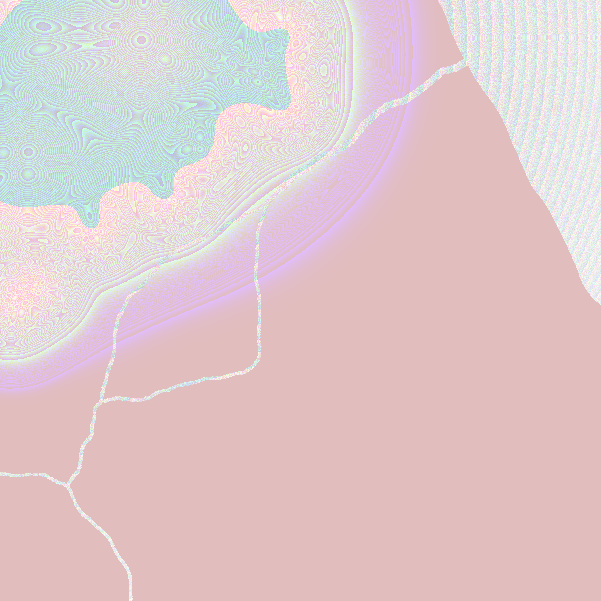
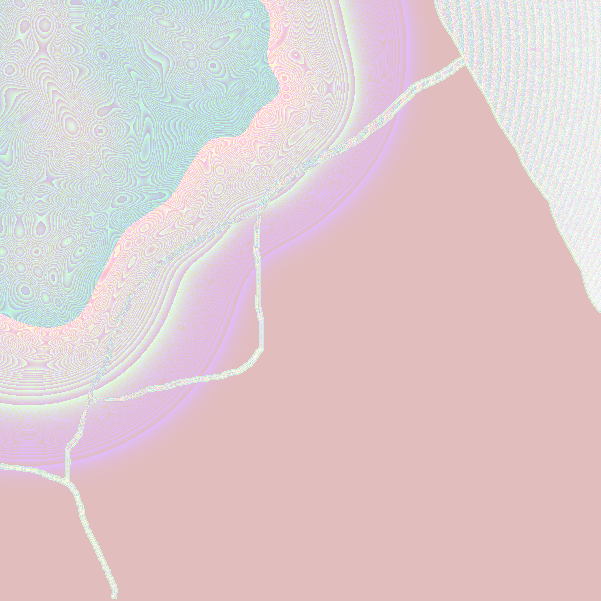
add smoothTerrain and update terrains.

diff --git a/ExRoadDesigner/GeneratedFiles/ui_ControlWidget.h b/ExRoadDesigner/GeneratedFiles/ui_ControlWidget.h
@@ -1,7 +1,7 @@
 /********************************************************************************
 ** Form generated from reading UI file 'ControlWidget.ui'
 **
-** Created: Wed Feb 4 12:25:34 2015
+** Created: Wed Feb 4 16:25:29 2015
 **      by: Qt User Interface Compiler version 4.8.2
 **
 ** WARNING! All changes made in this file will be lost when recompiling UI file!
@@ -114,6 +114,7 @@ public:
     QLabel *label_15;
     QLineEdit *terrainPaint_changeEdit;
     QLabel *terrainPaint_changeLabel_2;
+    QPushButton *pushButtonSmoothTerrain;
 
     void setupUi(QDockWidget *ControlWidget)
     {
@@ -295,7 +296,7 @@ public:
         ContentEditionTab->setObjectName(QString::fromUtf8("ContentEditionTab"));
         groupBox_6 = new QGroupBox(ContentEditionTab);
         groupBox_6->setObjectName(QString::fromUtf8("groupBox_6"));
-        groupBox_6->setGeometry(QRect(10, 20, 171, 251));
+        groupBox_6->setGeometry(QRect(10, 20, 171, 311));
         terrainPaint_sizeLabel = new QLabel(groupBox_6);
         terrainPaint_sizeLabel->setObjectName(QString::fromUtf8("terrainPaint_sizeLabel"));
         terrainPaint_sizeLabel->setGeometry(QRect(10, 20, 61, 16));
@@ -368,7 +369,7 @@ public:
         content_checkbox->setGeometry(QRect(10, 190, 121, 17));
         groupBox_2 = new QGroupBox(groupBox_6);
         groupBox_2->setObjectName(QString::fromUtf8("groupBox_2"));
-        groupBox_2->setGeometry(QRect(10, 210, 151, 31));
+        groupBox_2->setGeometry(QRect(10, 270, 151, 31));
         content_0 = new QPushButton(groupBox_2);
         content_0->setObjectName(QString::fromUtf8("content_0"));
         content_0->setGeometry(QRect(10, 10, 19, 19));
@@ -424,6 +425,9 @@ public:
         terrainPaint_changeLabel_2 = new QLabel(groupBox_6);
         terrainPaint_changeLabel_2->setObjectName(QString::fromUtf8("terrainPaint_changeLabel_2"));
         terrainPaint_changeLabel_2->setGeometry(QRect(88, 40, 16, 16));
+        pushButtonSmoothTerrain = new QPushButton(groupBox_6);
+        pushButtonSmoothTerrain->setObjectName(QString::fromUtf8("pushButtonSmoothTerrain"));
+        pushButtonSmoothTerrain->setGeometry(QRect(20, 220, 131, 31));
         TabWidget->addTab(ContentEditionTab, QString());
         ControlWidget->setWidget(dockWidgetContents);
         QWidget::setTabOrder(pushButtonGeneratePM, pushButtonClear);
@@ -454,7 +458,7 @@ public:
 
         retranslateUi(ControlWidget);
 
-        TabWidget->setCurrentIndex(0);
+        TabWidget->setCurrentIndex(2);
 
 
         QMetaObject::connectSlotsByName(ControlWidget);
@@ -526,6 +530,7 @@ public:
         content_10->setText(QApplication::translate("ControlWidget", "F", 0, QApplication::UnicodeUTF8));
         label_15->setText(QApplication::translate("ControlWidget", "Size:", 0, QApplication::UnicodeUTF8));
         terrainPaint_changeLabel_2->setText(QApplication::translate("ControlWidget", "m", 0, QApplication::UnicodeUTF8));
+        pushButtonSmoothTerrain->setText(QApplication::translate("ControlWidget", "Smooth Terrain", 0, QApplication::UnicodeUTF8));
         TabWidget->setTabText(TabWidget->indexOf(ContentEditionTab), QApplication::translate("ControlWidget", "Content", 0, QApplication::UnicodeUTF8));
         Q_UNUSED(ControlWidget);
     } // retranslateUi

diff --git a/ExRoadDesigner/MainWindow.cpp b/ExRoadDesigner/MainWindow.cpp
@@ -96,7 +96,6 @@ MainWindow::MainWindow(QWidget *parent, Qt::WFlags flags) : QMainWindow(parent, 
 	urbanGeometry = new UrbanGeometry(this);
 
 	mode = MODE_AREA_SELECT;
-	//imgCount=0;
 }
 
 MainWindow::~MainWindow() {
@@ -113,8 +112,8 @@ void MainWindow::keyReleaseEvent(QKeyEvent* e) {
 void MainWindow::onNewTerrain() {
 	TerrainSizeInputDialog dlg(this);
 	if (dlg.exec() == QDialog::Accepted) {
-		//urbanGeometry->newTerrain(dlg.width, dlg.depth, dlg.cellLength);
 		glWidget->vboRenderManager.changeTerrainDimensions(dlg.side,dlg.cellResolution);
+		glWidget->shadow.makeShadowMap(glWidget);
 		glWidget->updateGL();
 	}
 }
@@ -123,8 +122,7 @@ void MainWindow::onLoadTerrain() {
 	QString filename = QFileDialog::getOpenFileName(this, tr("Load Terrain file..."), "", tr("Terrain Files (*.png *.jpg)"));
 	if (filename.isEmpty()) return;
 	glWidget->vboRenderManager.vboTerrain.loadTerrain(filename);
-	//urbanGeometry->loadTerrain(filename);
-
+	glWidget->shadow.makeShadowMap(glWidget);
 	glWidget->updateGL();
 }
 
@@ -132,7 +130,6 @@ void MainWindow::onSaveTerrain() {
 	QString filename = QFileDialog::getSaveFileName(this, tr("Save Terrain file..."), "", tr("Terrain Files (*.png)"));
 	if (filename.isEmpty()) return;
 	glWidget->vboRenderManager.vboTerrain.saveTerrain(filename);
-	//urbanGeometry->saveTerrain(filename);
 }
 
 void MainWindow::onLoadRoads() {

diff --git a/ExRoadDesigner/ControlWidget.cpp b/ExRoadDesigner/ControlWidget.cpp
@@ -76,6 +76,7 @@ ControlWidget::ControlWidget(MainWindow* mainWin) : QDockWidget("Control Widget"
 	connect(ui.render_2DroadsExtraWidthSlider, SIGNAL(valueChanged(int)),this, SLOT(updateRender2D(int)));
 	connect(ui.render_2DparksSlider, SIGNAL(valueChanged(int)),this, SLOT(updateRender2D(int)));
 	connect(ui.render_2DparcelLineSlider, SIGNAL(valueChanged(int)),this, SLOT(updateRender2D(int)));
+	connect(ui.pushButtonSmoothTerrain, SIGNAL(clicked()), this, SLOT(smoothTerrain()));
 	connect(ui.content_checkbox, SIGNAL(stateChanged(int)),this, SLOT(contentDesign(int)));
 
 	connect(ui.content_0, SIGNAL(clicked()), this, SLOT(contentDesignLevel()));
@@ -360,6 +361,12 @@ void ControlWidget::changeTerrainShader(int) {
 	printf("terrainMode %d\n", terrainMode);
 	mainWin->glWidget->vboRenderManager.changeTerrainShader(terrainMode);
 	mainWin->urbanGeometry->update(mainWin->glWidget->vboRenderManager);
+	mainWin->glWidget->shadow.makeShadowMap(mainWin->glWidget);
+	mainWin->glWidget->updateGL();
+}
+
+void ControlWidget::smoothTerrain() {
+	mainWin->glWidget->vboRenderManager.vboTerrain.smoothTerrain();
 	mainWin->glWidget->shadow.makeShadowMap(mainWin->glWidget);
 	mainWin->glWidget->updateGL();
 }

diff --git a/ExRoadDesigner/VBOTerrain.h b/ExRoadDesigner/VBOTerrain.h
@@ -32,6 +32,7 @@ public:
 	void render(bool drawEditingCircle);
 	void updateGaussian(float u, float v, float height, float rad_ratio);
 	void excavate(float u, float v, float height, float rad_ratio);
+	void smoothTerrain();
 	float getTerrainHeight(float u, float v);
 	void loadTerrain(const QString& fileName);
 	void saveTerrain(const QString& fileName);

diff --git a/ExRoadDesigner/VBOTerrain.cpp b/ExRoadDesigner/VBOTerrain.cpp
@@ -245,6 +245,13 @@ void VBOTerrain::excavate(float u, float v, float height, float rad_ratio) {
 	updateTexture();
 }
 
+void VBOTerrain::smoothTerrain() {
+	cv::blur(layerData,layerData,cv::Size(3, 3));
+
+	// update texture
+	updateTexture();
+}
+
 /**
  * Return the terrain elevation.
  *

diff --git a/ExRoadDesigner/ControlWidget.h b/ExRoadDesigner/ControlWidget.h
@@ -36,7 +36,7 @@ public slots:
 	void updateTerrainEdit(const QString &text);
 	void updateRender2D(int newValue);
 	void changeTerrainShader(int);
-
+	void smoothTerrain();
 	void contentDesign(int);
 	void contentDesignLevel();
 
